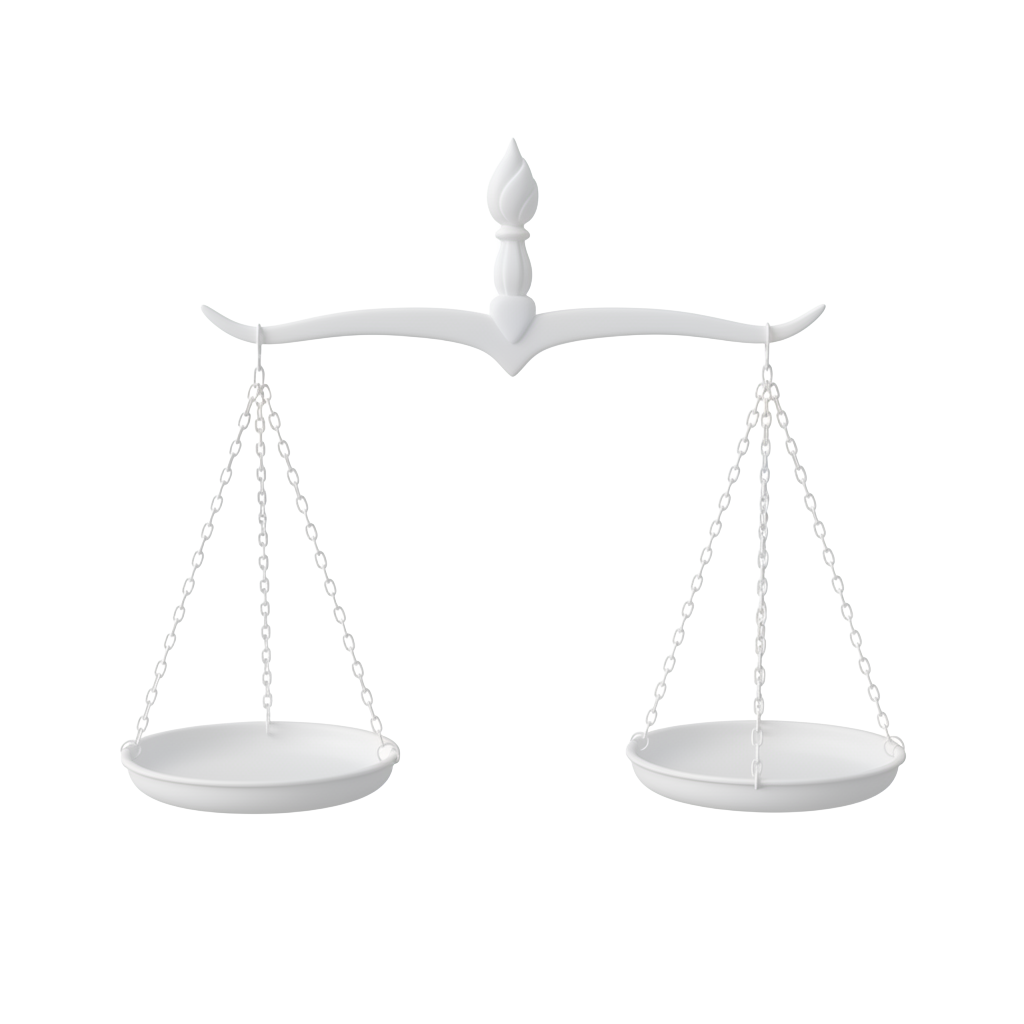
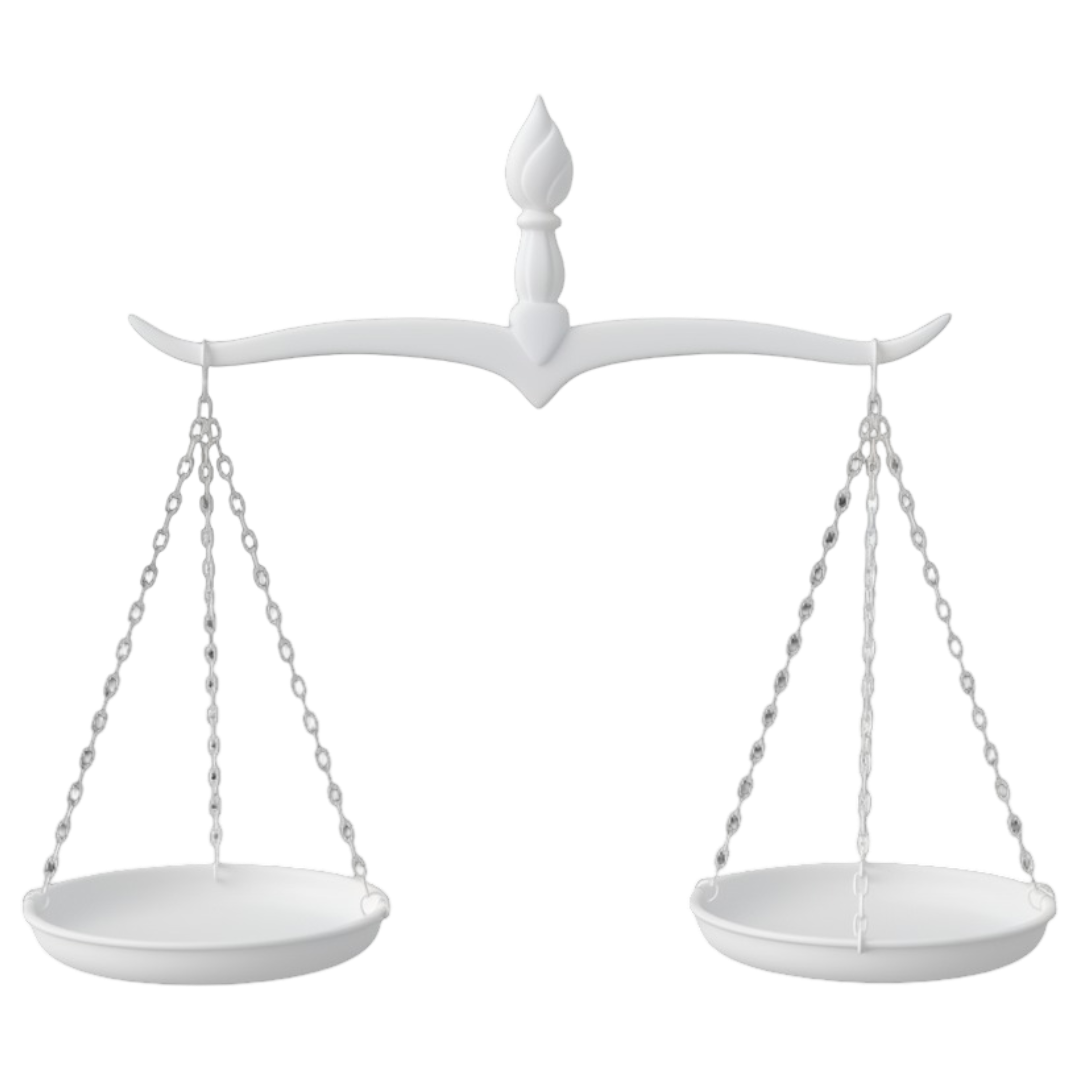
feat: host events page

diff --git a/apps/web/src/components/pages/HostPages/EventsPage/HostEventPage.tsx b/apps/web/src/components/pages/HostPages/EventsPage/HostEventPage.tsx
@@ -1,0 +1,47 @@
+import PageContainer from "@/components/container/PageContainer";
+import SectionContainer from "@/components/container/SectionContainer";
+import TitleSubtitle from "@/components/TitleSubtitle";
+import WrappedButton from "@/components/wrapper/WrappedButton";
+
+export default function HostEventPage() {
+  return (
+    <PageContainer title="Events">
+      <SectionContainer className="flex items-center justify-between">
+        <TitleSubtitle title="Events" subtitle="Create or manage your events" />
+        <div className="flex justify-end">
+          <WrappedButton>Create Event</WrappedButton>
+        </div>
+      </SectionContainer>
+
+      <SectionContainer>
+        <table className="w-full">
+          <thead className="border-b  h-10">
+            <tr>
+              <th className="text-start text-muted">Name</th>
+              <th className="text-end text-muted">Status</th>
+            </tr>
+          </thead>
+          <tbody>
+            <tr>
+              <td>
+                <p className="underline mt-4 cursor-pointer">ToBeIT 67</p>
+                <p className="text-muted text-sm mt-0.5">24 Sep 2025 - 25 Sep 2025</p>
+                <p className="text-muted text-sm">Invite Only</p>
+              </td>
+              <td className="text-end">Active</td>
+            </tr>
+
+            <tr>
+              <td>
+                <p className="underline mt-4">ToBeIT 67</p>
+                <p className="text-muted text-sm mt-0.5">24 Sep 2025 - 25 Sep 2025</p>
+                <p className="text-muted text-sm">Invite Only</p>
+              </td>
+              <td className="text-end">Active</td>
+            </tr>
+          </tbody>
+        </table>
+      </SectionContainer>
+    </PageContainer>
+  );
+}

diff --git a/apps/web/src/components/wrapper/WrappedButton.tsx b/apps/web/src/components/wrapper/WrappedButton.tsx
@@ -1,0 +1,33 @@
+import type { ReactNode } from "react";
+import { Button } from "../ui/button";
+import { cn } from "@/lib/utils";
+import { cva, type VariantProps } from "class-variance-authority";
+
+const wrappedButtonVariants = cva("h-12 rounded-[12px]", {
+  variants: {
+    variant: {
+      secondary: "bg-white text-primary",
+      primary: "bg-primary text-white",
+      secondaryWhite: "bg-white text-primary",
+      link: "bg-transparent text-primary underline h-fit",
+    },
+  },
+  defaultVariants: {
+    variant: "primary",
+  },
+});
+
+type WrappedButtonProps = {
+  children: ReactNode;
+  className?: string;
+} & VariantProps<typeof wrappedButtonVariants>;
+
+export default function WrappedButton({ children, className, variant }: WrappedButtonProps) {
+  const _className = cn(
+    wrappedButtonVariants({
+      variant,
+    }),
+    className
+  );
+  return <Button className={cn(_className, className)}>{children}</Button>;
+}

diff --git a/apps/web/src/components/pages/HostPages/HomePage/HostHomePage.tsx b/apps/web/src/components/pages/HostPages/HomePage/HostHomePage.tsx
@@ -6,11 +6,11 @@ import { Link, type Path } from "@/router";
 
 export default function HostHomePage() {
   return (
-    <PageContainer title="Host Dashboard" className="space-y-8 lg:space-y-16 relative">
+    <PageContainer title="Host Dashboard">
       <img
         src="/justice.png"
         alt="Host Dashboard Background"
-        className="absolute bottom-0 lg:right-0 w-[500px] h-[500px] opacity-50"
+        className="absolute bottom-0 lg:right-0 w-[400px] h-[400px] opacity-50 m-0"
       />
 
       <SectionContainer>
@@ -23,7 +23,7 @@ export default function HostHomePage() {
         </Typography>
 
         <div className="grid grid-cols-1 lg:grid-cols-3 gap-2 lg:gap-6 lg:mt-6">
-          <MenuItem title="Event" to="/host/home" />
+          <MenuItem title="Event" to="/host/events" />
           <MenuItem title="Inbox" to="/host/home" />
           <MenuItem title="Profile" to="/host/home" />
         </div>

diff --git a/apps/web/src/router.ts b/apps/web/src/router.ts
@@ -5,6 +5,8 @@ import { components, hooks, utils } from '@generouted/react-router/client'
 
 export type Path =
   | `/`
+  | `/host/events`
+  | `/host/events/create`
   | `/host/home`
   | `/oauth/google`
   | `/onboard/:method`

diff --git a/apps/web/src/pages/host/events/create/index.tsx b/apps/web/src/pages/host/events/create/index.tsx
@@ -1,0 +1,5 @@
+import CreateEventPage from "@/components/pages/HostPages/CreateEventPage/CreateEventPage";
+
+export default function Page() {
+  return <CreateEventPage />;
+}

diff --git a/apps/web/src/pages/host/events/index.tsx b/apps/web/src/pages/host/events/index.tsx
@@ -1,0 +1,5 @@
+import HostEventPage from "@/components/pages/HostPages/EventsPage/HostEventPage";
+
+export default function Page() {
+  return <HostEventPage />;
+}

diff --git a/apps/web/src/components/container/PageContainer.tsx b/apps/web/src/components/container/PageContainer.tsx
@@ -33,6 +33,7 @@ export default function PageContainer({
     pageContainerVariants({
       bgColor,
     }),
+    "space-y-8 relative",
     className
   );
 

diff --git a/apps/web/src/components/pages/HostPages/CreateEventPage/CreateEventPage.tsx b/apps/web/src/components/pages/HostPages/CreateEventPage/CreateEventPage.tsx
@@ -1,0 +1,3 @@
+export default function CreateEventPage() {
+  return <div>CreateEventPage</div>;
+}
